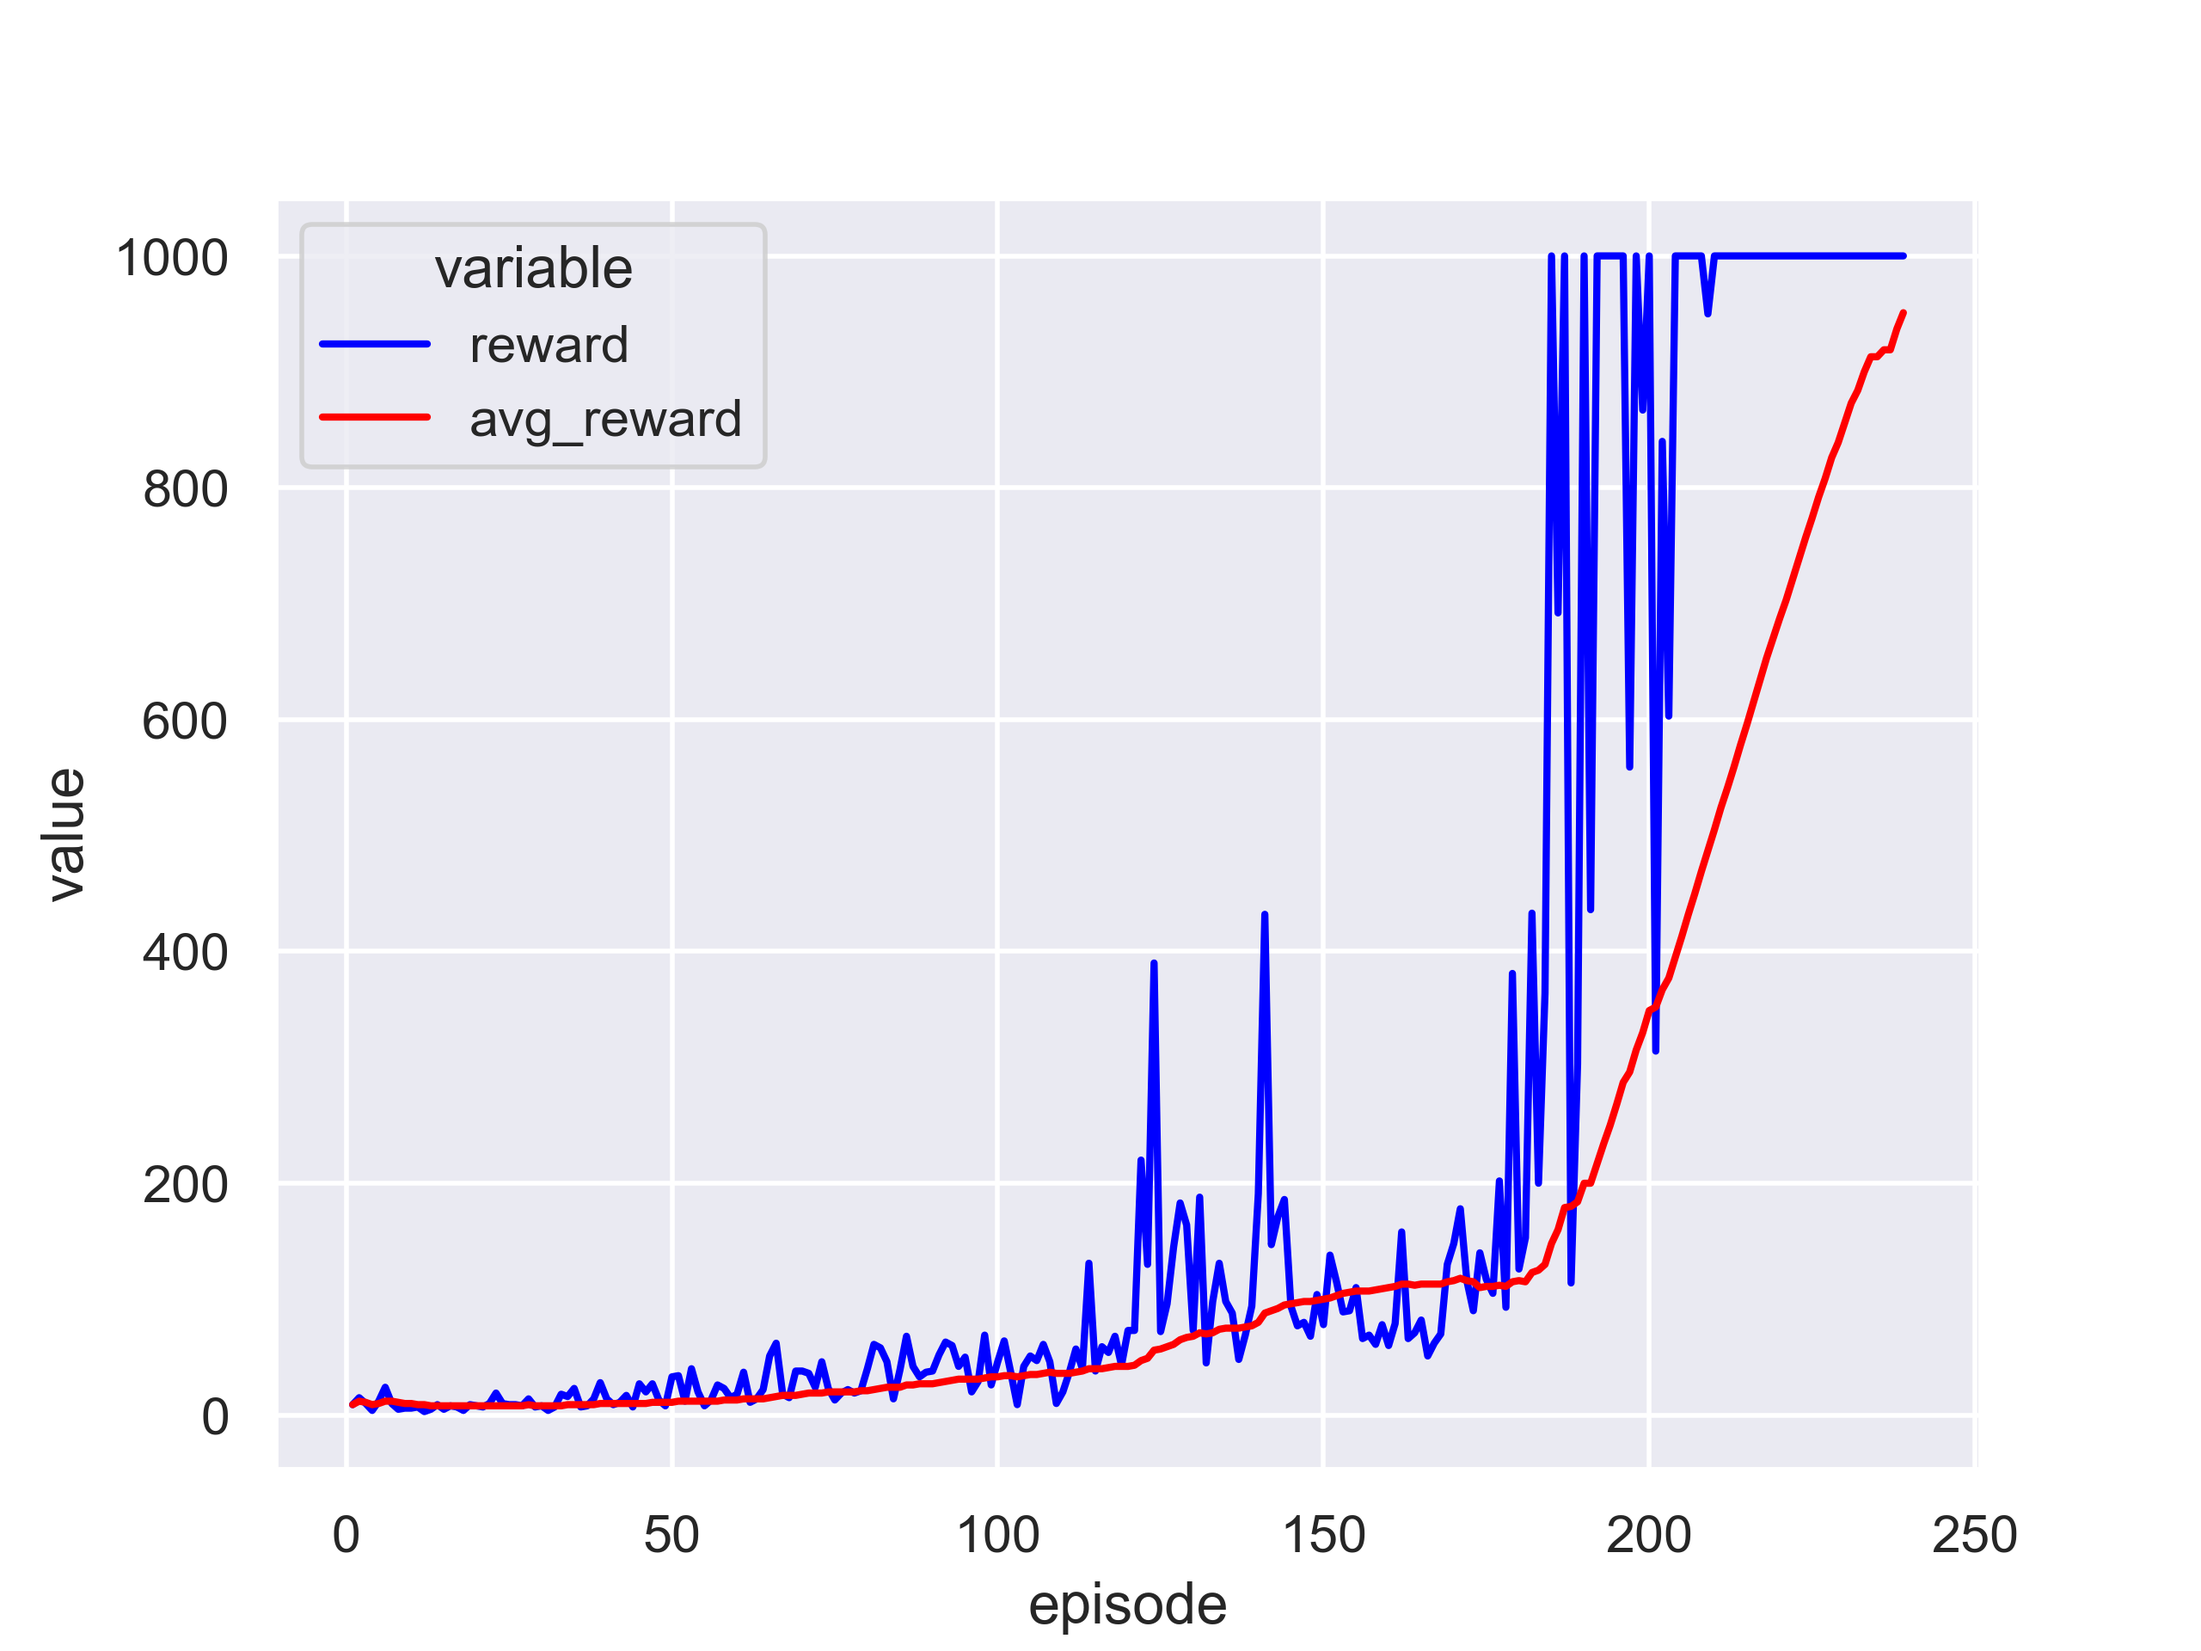
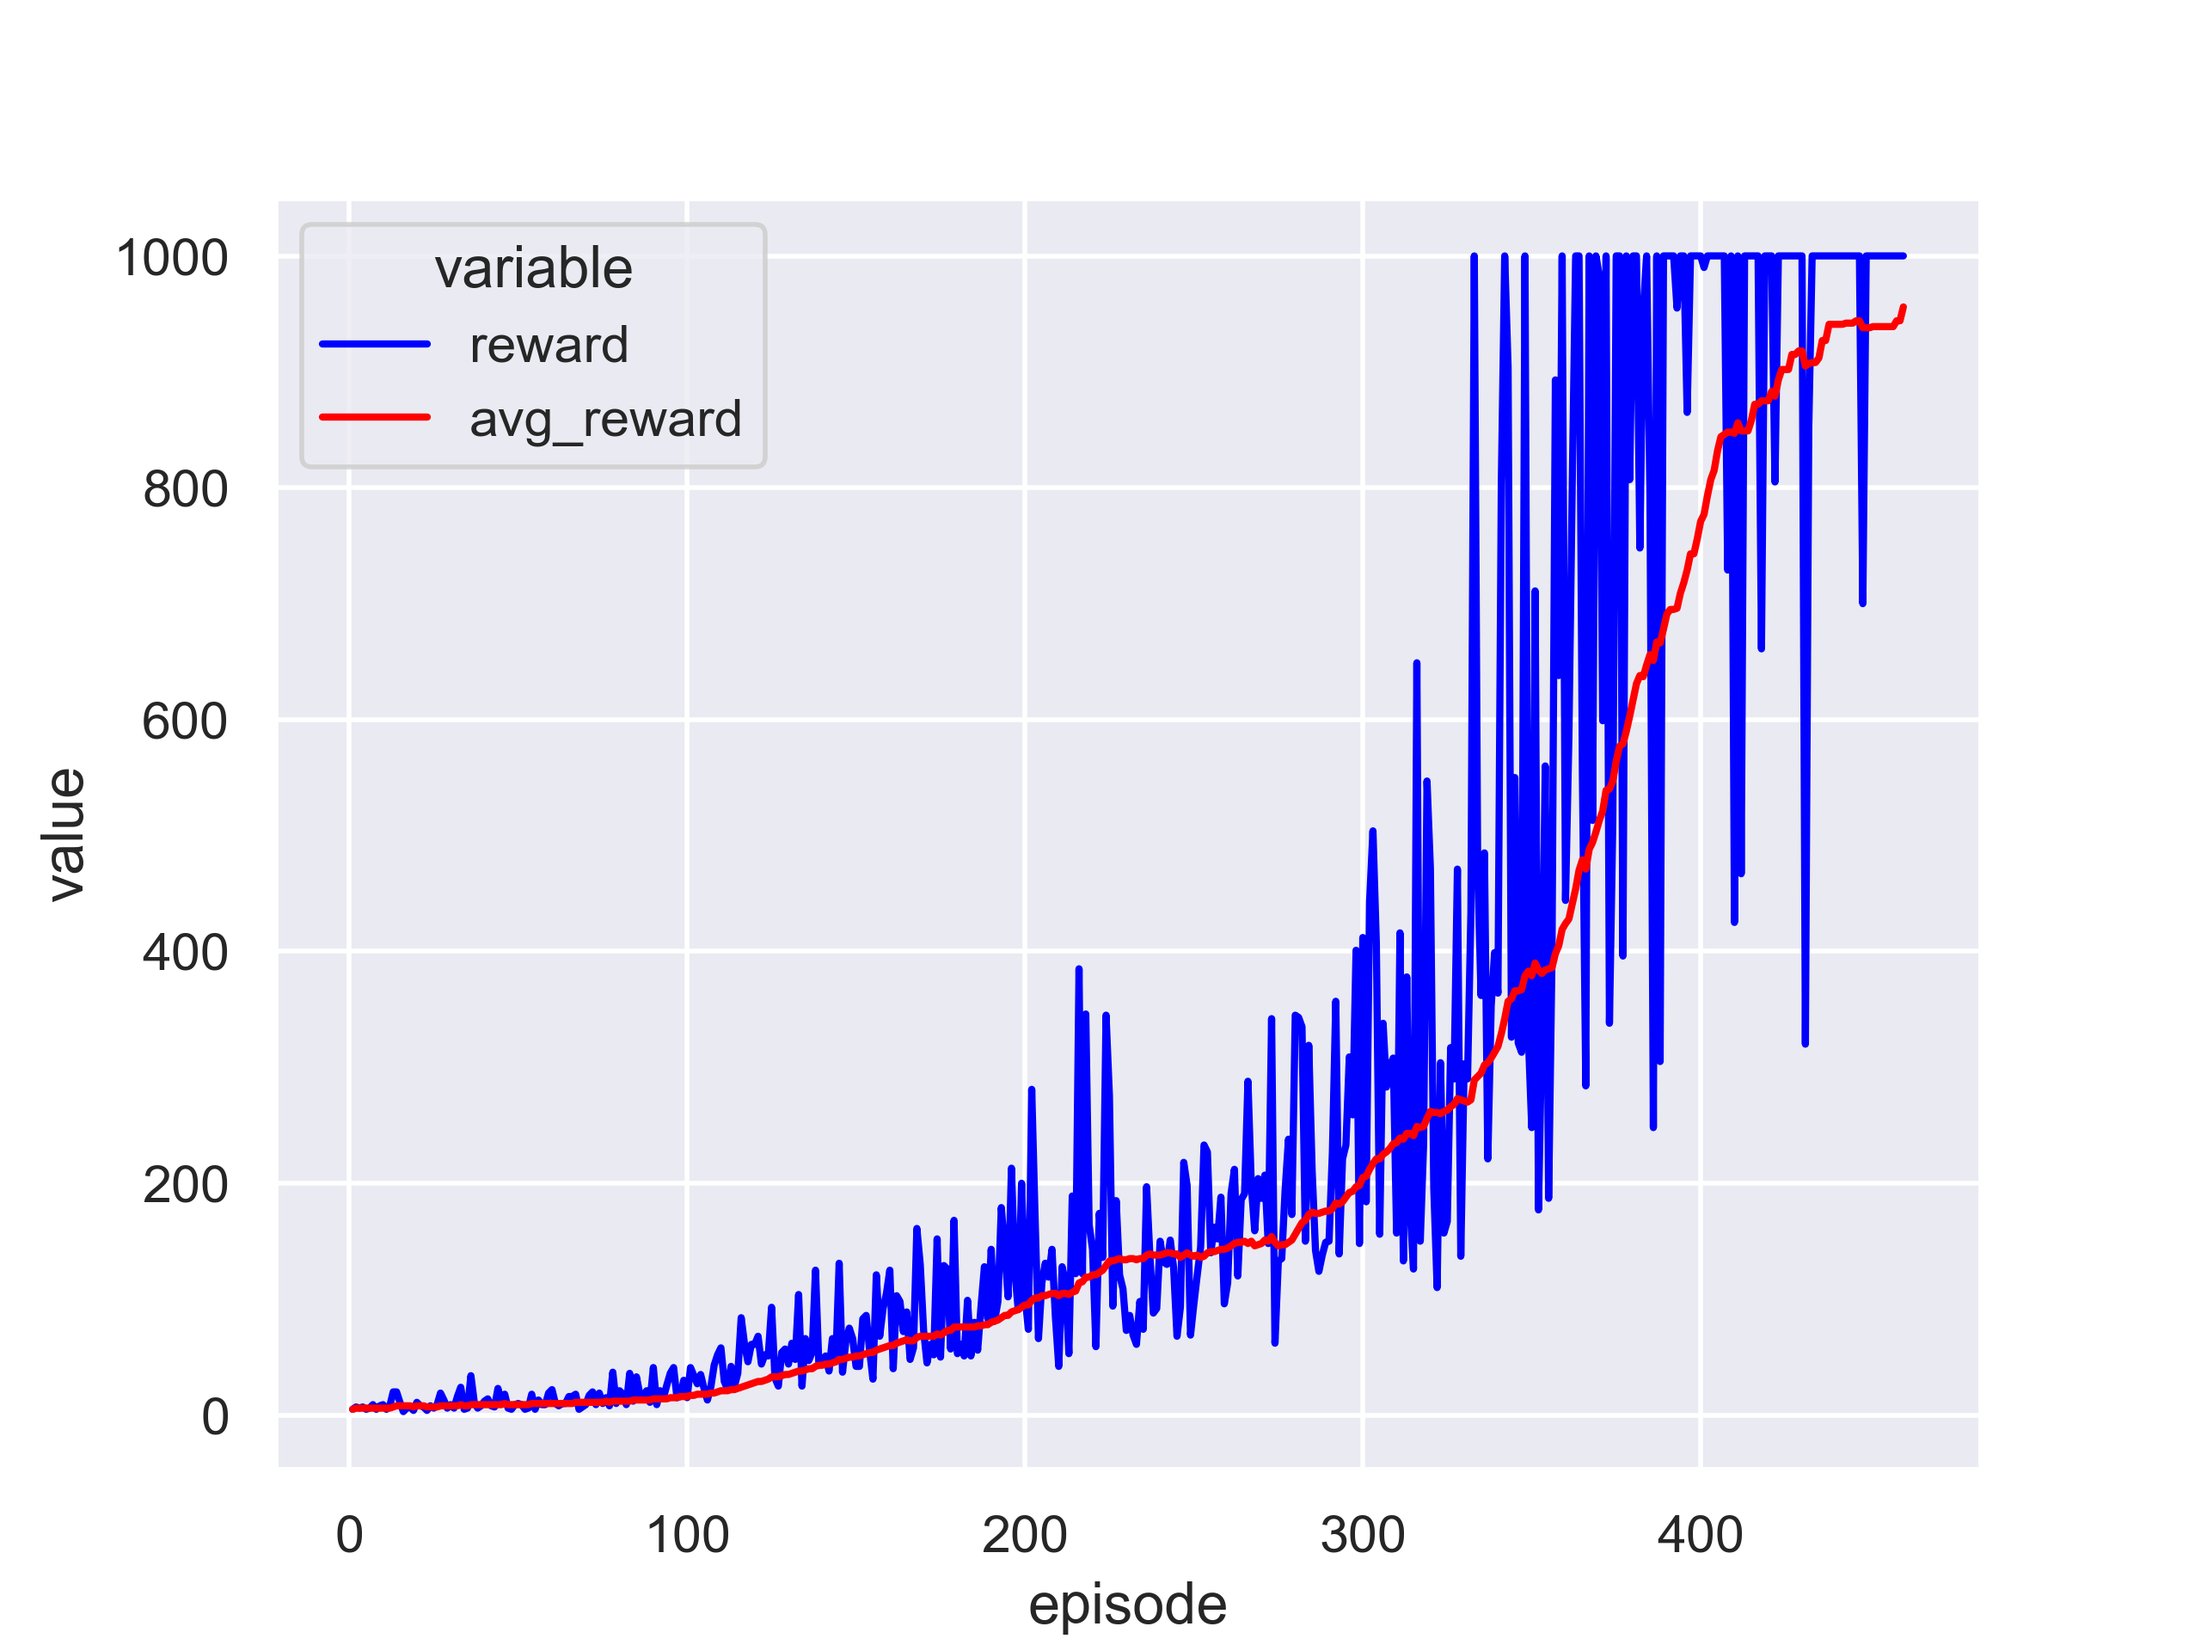
add PPO tricks

diff --git a/4.PPO/InvertedPendulum.py b/4.PPO/InvertedPendulum.py
@@ -4,6 +4,7 @@ import random
 import pandas as pd
 import seaborn as sns
 import matplotlib.pyplot as plt
+from tensorstore import dtype
 from tqdm import tqdm
 import numpy as np
 import torch.nn as nn
@@ -18,7 +19,7 @@ ENV_NAME = 'InvertedPendulum-v5'
 ALGO_NAME = 'PPO'
 LOG_FILE = f'{ENV_NAME}_{ALGO_NAME}.txt'
 FIG_FILE = f'{ENV_NAME}_{ALGO_NAME}_reward.png'
-INFER_CKPT = 'InvertedPendulum-v5_PPO_episode_239_reward_951.pth'
+INFER_CKPT = 'InvertedPendulum-v5_PPO_episode_460_reward_956.pth'
 
 SEED = 1111
 
@@ -32,25 +33,39 @@ g_stop_reward = 950
 g_ppo_clip_epsilon = 0.2
 
 # tricks
-g_entropy_coef = 0.01 # trick 1, policy entropy, set 0. to disable
-g_batch_size = 128  # trick 2, use batch data instead of total episode data, set 0 to disable
-g_gradient_clip = 0.5  # trick 3, gradient clip, set 0. to disable
-g_advantage_norm = True  # trick 4,  advantage normalization
-g_state_norm = True
+# trick 1, policy entropy, set 0. to disable
+g_entropy_coef = 0.01
+# trick 2, use batch data instead of total episode data, set 0 to disable
+# attention, if your memory size is much larger than batch size, do not simply random sample batch from memory
+# instead, shuffle memory and load batch from memory as order. make sure to use experience fully and on average.
+g_batch_size = 128
+# trick 3, gradient clip, set 0. to disable
+g_gradient_clip = 0.5
+# trick 4,  advantage normalization in mini-batch
+g_advantage_norm = True
+# trick 5, orthogonal init
+g_use_orthogonal_init = False  # bad in this case
+# trick 6, adam eps 1e-8 or 1e-7
+g_adam_eps = 1e-8
+# trick 7, lr decay
+g_lr_decay = True
 # other tricks
 # 1. Beta distribution instead of Guassain distribution
-# 2. Orthogonal Initialization
+# 2. state moving average normalization
 
 Transition = namedtuple('Transition',
                         ('state', 'action', 'action_log_prob', 'reward', 'next_state', 'terminated', 'truncated'))
 
 
-class ActorNet(nn.Module):
-    def  __init__(self, n_states, n_actions, state_batchnorm=False):
-        super().__init__()
+def orthogonal_init(module):
+    if isinstance(module, nn.Linear) or isinstance(module, nn.Conv2d):
+        nn.init.orthogonal_(module.weight, gain=0.01)
+        nn.init.constant_(module.bias, 0)
 
-        self.state_batchnorm = state_batchnorm
-        self.bn = nn.BatchNorm1d(n_states)
+
+class ActorNet(nn.Module):
+    def  __init__(self, n_states, n_actions, use_orthogonal_init=False):
+        super().__init__()
 
         self.fc = nn.Sequential(
             nn.Linear(n_states, 16),
@@ -64,20 +79,18 @@ class ActorNet(nn.Module):
 
         self.softmax = nn.Softmax(dim=-1)
 
+        if use_orthogonal_init:
+            self.apply(orthogonal_init)
+
     def forward(self, state):
-        if self.state_batchnorm:
-            state = self.bn(state)
         output = self.fc(state)
         mean, std = torch.split(output, 1, dim=-1)
         std = torch.log(1 + torch.exp(std))
         return mean, std
 
 class CriticNet(nn.Module):
-    def __init__(self, n_states, state_batchnorm=False):
+    def __init__(self, n_states, use_orthogonal_init=False):
         super().__init__()
-
-        self.state_batchnorm = state_batchnorm
-        self.bn = nn.BatchNorm1d(n_states)
 
         self.fc = nn.Sequential(
             nn.Linear(n_states, 128),
@@ -87,16 +100,17 @@ class CriticNet(nn.Module):
             nn.Linear(128, 1)
         )
 
+        if use_orthogonal_init:
+            self.apply(orthogonal_init)
+
     def forward(self, state):
-        if self.state_batchnorm:
-            state = self.bn(state)
         state_value = self.fc(state)
         return state_value
 
 class Agent:
-    def __init__(self, actor_ckpt=None, critic_ckpt=None, state_norm=False):
-        self.actor = ActorNet(4, 1, state_batchnorm=state_norm)
-        self.critic = CriticNet(4, state_batchnorm=state_norm)
+    def __init__(self, actor_ckpt=None, critic_ckpt=None, use_orthogonal_init=False):
+        self.actor = ActorNet(4, 1, use_orthogonal_init=use_orthogonal_init)
+        self.critic = CriticNet(4, use_orthogonal_init=use_orthogonal_init)
         self.device = torch.device("cuda" if torch.cuda.is_available() else "cpu")
 
         self.actor = self.actor.to(self.device)
@@ -161,7 +175,7 @@ class Agent:
 
 class PPO:
     def __init__(self, agent: Agent, gamma=0.99, lambda_=0.95, ppo_epochs=100, ppo_clip_eps=0.2, entropy_coef=0.,
-                 lr=1e-4, batch_size=0, gradient_clip=0., adv_norm=False):
+                 lr=1e-4, batch_size=0, gradient_clip=0., adv_norm=False, adam_eps=1e-5, lr_decay=False):
         self.agent = agent
         self.gamma = gamma
         self.lambda_ = lambda_
@@ -172,10 +186,16 @@ class PPO:
         self.batch_size = batch_size
         self.gradient_clip = gradient_clip
         self.adv_norm = adv_norm
+        self.lr_decay = lr_decay
 
         self.agent.train_mode()
-        self.actor_optimizer = torch.optim.Adam(self.agent.actor.parameters(), lr=lr)
-        self.critic_optimizer = torch.optim.Adam(self.agent.critic.parameters(), lr=lr)
+        self.actor_optimizer = torch.optim.Adam(self.agent.actor.parameters(), lr=lr, eps=adam_eps)
+        self.critic_optimizer = torch.optim.Adam(self.agent.critic.parameters(), lr=lr, eps=adam_eps)
+        if self.lr_decay:
+            # self.actor_scheduler = torch.optim.lr_scheduler.StepLR(self.actor_optimizer, step_size=10, gamma=0.9)
+            # self.critic_scheduler = torch.optim.lr_scheduler.StepLR(self.critic_optimizer, step_size=10, gamma=0.9)
+            self.actor_scheduler = torch.optim.lr_scheduler.ExponentialLR(self.actor_optimizer, gamma=0.99)
+            self.critic_scheduler = torch.optim.lr_scheduler.ExponentialLR(self.critic_optimizer, gamma=0.99)
         self.critic_loss_f = nn.MSELoss()
 
         self.memory = []
@@ -195,7 +215,6 @@ class PPO:
                 gae[i] += gae[i + 1] * self.gamma * self.lambda_ * (1.0 - done_batch[i][0])
 
             target_state_values = gae + state_values
-            gae = ((gae - gae.mean()) / (gae.std() + 1e-5)) if self.adv_norm else gae
         return gae, target_state_values
 
     def update(self, transition: Transition, done):
@@ -213,17 +232,22 @@ class PPO:
         terminal_batch = torch.stack(batch.terminated).to(self.agent.device)
         truncated_batch = torch.stack(batch.truncated).to(self.agent.device)
 
-        for _ in range(self.ppo_epochs):
-            gae, target_state_values = self.estimate_gae(state_batch, reward_batch, next_state_batch,
-                                                         terminal_batch, truncated_batch)
-
+        gae, target_state_values = self.estimate_gae(state_batch, reward_batch, next_state_batch,
+                                                     terminal_batch, truncated_batch)
+        indices = torch.randperm(len(self.memory))
+        batch_size = self.batch_size if self.batch_size > 0 else len(self.memory)
+        for _ppo_epoch in range(self.ppo_epochs):
             # sample
-            _indices = torch.randperm(len(self.memory))[:(self.batch_size if self.batch_size > 0 else len(self.memory))]
+            id_of_indices = torch.Tensor(list(range(_ppo_epoch * batch_size, (_ppo_epoch + 1) * batch_size))).long()
+            id_of_indices = id_of_indices % len(self.memory)
+            _indices = indices[id_of_indices]
             _state_batch = state_batch[_indices, ...]
             _target_state_values = target_state_values[_indices, ...]
             _action_batch = action_batch[_indices, ...]
             _old_log_prob_batch = old_log_prob_batch[_indices, ...]
             _gae = gae[_indices, ...]
+
+            _gae = ((_gae - _gae.mean()) / (_gae.std() + 1e-5)) if self.adv_norm else _gae
 
             # critic
             _state_values = self.agent.criticize(_state_batch)
@@ -249,7 +273,9 @@ class PPO:
                 torch.nn.utils.clip_grad_norm_(self.agent.actor.parameters(), self.gradient_clip)
             self.actor_optimizer.step()
 
-
+        if self.lr_decay:
+            self.actor_scheduler.step()
+            self.critic_scheduler.step()
         self.memory.clear()
 
 def set_seed(seed):
@@ -266,10 +292,10 @@ def train():
 
     env = gym.make(ENV_NAME)
     env = gym.wrappers.RecordEpisodeStatistics(env, 50)
-    agent = Agent()
+    agent = Agent(use_orthogonal_init=g_use_orthogonal_init)
     algo = PPO(agent, gamma=g_discount_factor, lambda_=g_gae_lambda, ppo_epochs=g_PPO_epochs, ppo_clip_eps=g_ppo_clip_epsilon,
                entropy_coef=g_entropy_coef,lr=g_learning_rate, batch_size=g_batch_size, gradient_clip=g_gradient_clip,
-               adv_norm=g_advantage_norm)
+               adv_norm=g_advantage_norm, adam_eps=g_adam_eps, lr_decay=g_lr_decay)
 
     logger.info(f'Training agent to play {ENV_NAME} by {ALGO_NAME}.')
     logger.info(f'num_episodes:{g_num_episodes}, '
